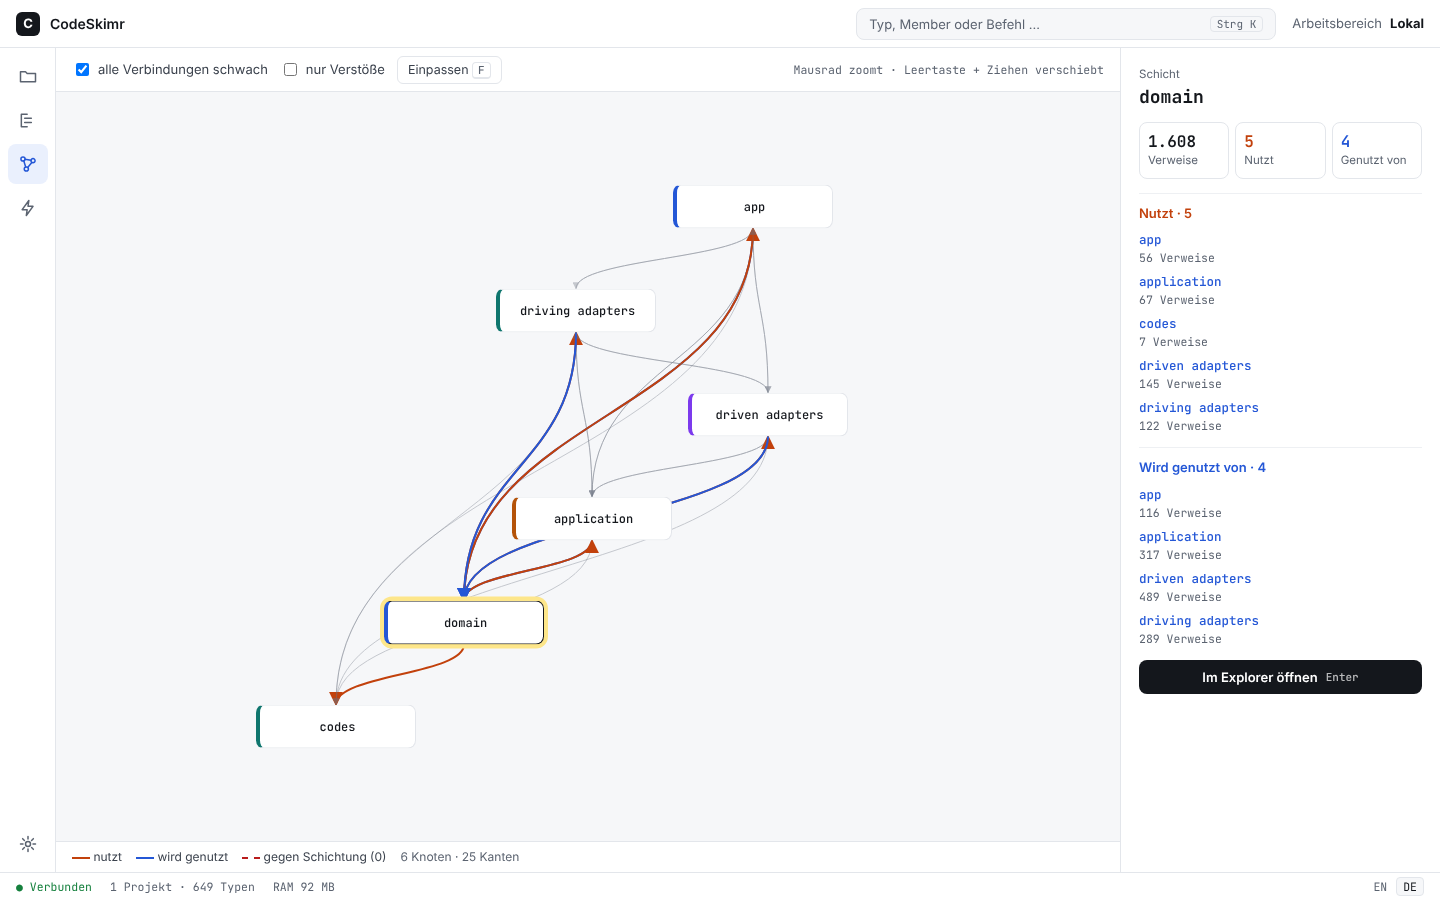
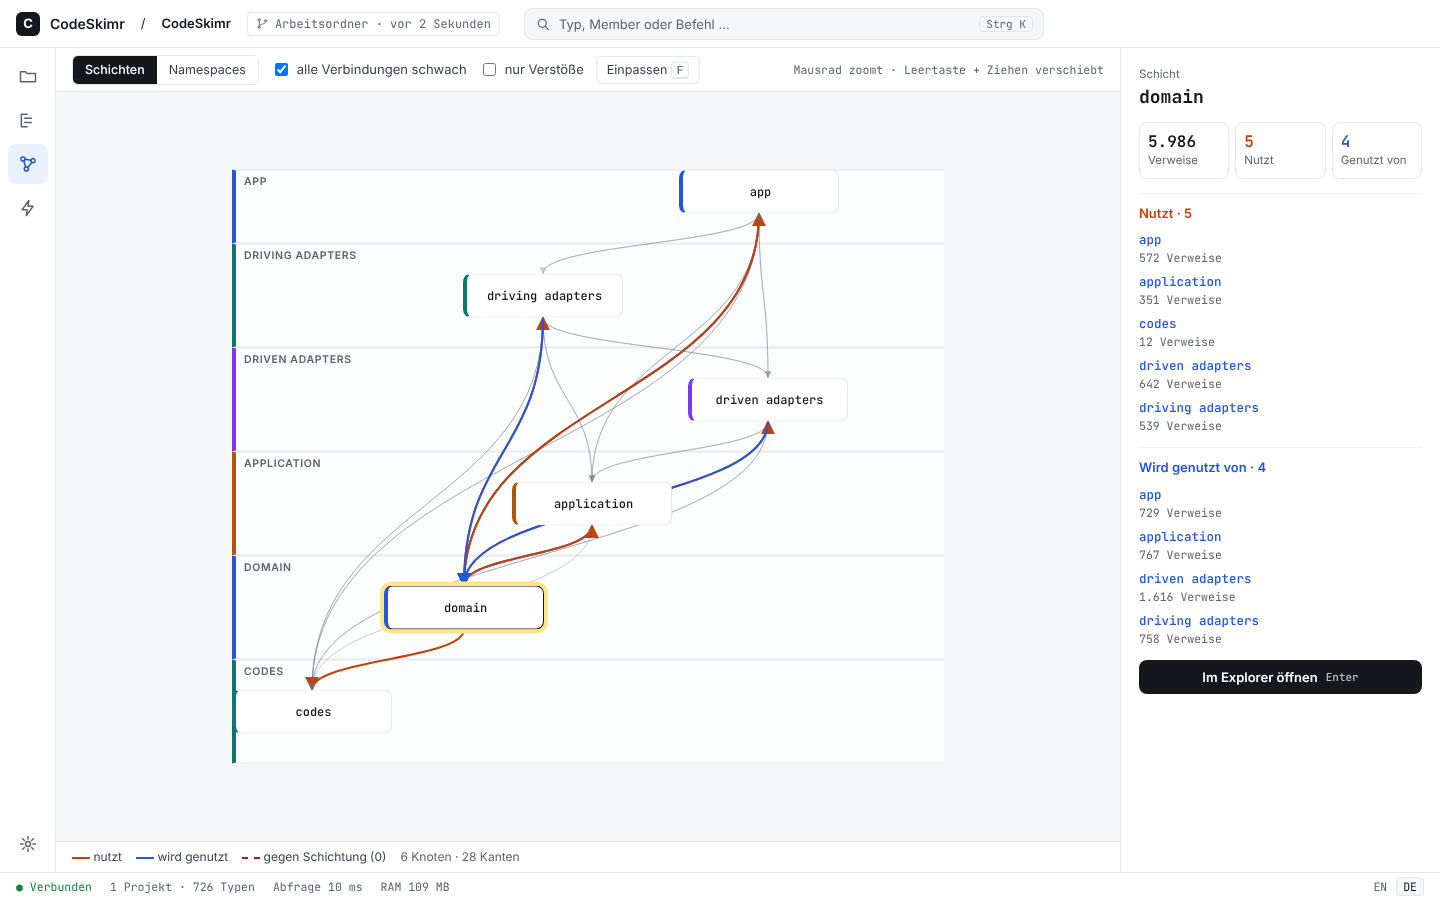
docs: M4-Abnahme wiederholt (Budgets und Mock-Vergleich)
Claude-Session: https://claude.ai/code/session_01GJNKFhQNMopPJV3RWKefFB

diff --git a/docs/acceptance/m4.md b/docs/acceptance/m4.md
@@ -1,8 +1,8 @@
 # Acceptance report M4 (WP-54)
 
-Status of 2026-11-13, commit `91d64da` (main at the start of the run, after WP-51; later commits only add other packages). The criteria are those of blueprint 19 for milestone M4: screens 3 (dependencies), 5 (scan and performance) and 6 (usages) match the mocks, graph layout under 50 ms, usages at depth 2 under 20 ms, and the jump from the explorer to the usages. The accuracy of the usages is not part of this report (WP-67, see `docs/accuracy.md`).
+Second run of 2026-11-14, commit `19c916b` (main after #215). The first run (2026-11-13, commit `91d64da`) found two budgets and many screen details open; the issues #165, #163, #166 to #169, #210 and #198 have been worked on since. The criteria are those of blueprint 19 for milestone M4: screens 3 (dependencies), 5 (scan and performance) and 6 (usages) match the mocks, graph layout under 50 ms, usages at depth 2 under 20 ms, and the jump from the explorer to the usages. The accuracy of the usages is not part of this report (WP-67, see `docs/accuracy.md`).
 
-**Machine:** Linux container, 4 vCPU, release build. As in the M1/M2 report, absolute times are indicative; blueprint 16.1 names a mid-range laptop. The one budget that fails here fails by a factor of up to 3.8 (measured 17 to 76 ms against 20 ms), which the machine alone does not explain.
+**Machine:** Linux container, 4 vCPU, release build. As in the M1/M2 report, absolute times are indicative; blueprint 16.1 names a mid-range laptop.
 
 Legend: ✅ met · ❌ not met (issue linked) · ◐ partly met
 
@@ -10,100 +10,87 @@ Legend: ✅ met · ❌ not met (issue linked) · ◐ partly met
 
 | # | Criterion | Result | Evidence |
 |---|---|---|---|
-| 1 | Screens 3, 5 and 6 match the mocks | ❌ | The three screens exist and work, but differ from the mocks in many places, see the comparison below. Issues #163, #166 to #169. |
-| 2 | Graph layout (≤ 200 nodes) under 50 ms | ✅ | Benchmark `graph_layout/nodes_200`: 0.46 ms. Command `graph.layers` over the real server: median 0.9 to 1.3 ms, p95 2.2 ms (n = 30 to 50). See the limits below. |
-| 3 | Usages query at depth 2 under 20 ms | ❌ | Benchmark `usages/depth_2` (index walk only): 2.1 ms. The command `usages.query` over the real server: 17 ms median (p95 29 ms) for symbols with 100 to 999 usages, 24 to 76 ms for the largest symbols. Issue #165. |
-| 4 | Jump from the explorer to the usages | ✅ | `U` and the button "Usages (U)" open the usages screen (checked by hand, screenshot below; e2e test `web/e2e/ui-usages.spec.ts`). `Enter` goes back to the explorer. `Alt` + click in code is missing (#158). |
+| 1 | Screens 3, 5 and 6 match the mocks | ◐ | Frame, layer bands, namespace level, scan screen and usages screen now follow the mocks in all structure checked; what is left is listed in the comparison below (type level and type focus of the map, parse time per language, code line in the hit list). The final judgement by eye is the product owner's. |
+| 2 | Graph layout (≤ 200 nodes) under 50 ms | ✅ | Benchmark `graph_layout/nodes_200`: 0.46 ms (unchanged). Command `graph.layers` over the real server: median 1.7 ms, p95 2.7 ms, max 4.1 ms (n = 50). |
+| 3 | Usages query at depth 2 under 20 ms | ✅ | Command `usages.query` over the real server: median 6.6 to 6.8 ms for symbols with 100 or more usages, p95 up to 9.1 ms, max 9.5 ms (before: 17 to 76 ms). Five largest symbols at depth 2: median 7.2 ms, p95 8.6 ms, max 11.1 ms. |
+| 4 | Jump from the explorer to the usages | ✅ | `U` and the button "Usages (U)" open the usages screen; `Enter` goes back (e2e test `web/e2e/ui-usages.spec.ts`). `Alt` + click in code is missing (#158). |
 
 ## Budgets
 
-Measured with `tools/acceptance/m4-measure.mjs`: it starts the end-to-end server of the app (release build), scans a folder (CodeSkimr itself: 521 files, 7,863 symbols, 31,936 references, scan 0.6 s) and calls the REST commands with timing in the client, so every number includes the HTTP round trip on the loopback address.
+Measured with `tools/acceptance/m4-measure.mjs`: it starts the end-to-end server of the app (release build), scans a folder (CodeSkimr itself: 594 files, 9,189 symbols, 94,949 references, first scan 1.7 s) and calls the REST commands with timing in the client, so every number includes the HTTP round trip on the loopback address. The project is larger than in the first run (521 files, 31,936 references), so the scan times are not comparable.
 
 ### Graph layout (`graph.layers`)
 
 | Measurement | Result |
 |---|---|
-| Benchmark `graph_layout/nodes_200` (domain layout) | 0.46 ms (0.45 to 0.46) |
-| Benchmark `graph_layout/nodes_1000` | 2.6 ms |
-| Benchmark `graph_layers/layers_200` | 0.40 ms |
-| Command `graph.layers`, CodeSkimr (6 layers, 25 links), 50 calls | median 0.92 ms, p95 1.50 ms, max 2.19 ms |
-| Same, second run, 30 calls | median 1.33 ms, p95 2.16 ms |
+| Benchmark `graph_layout/nodes_200` (domain layout) | 0.46 ms (unchanged since the first run) |
+| Command `graph.layers`, CodeSkimr (6 layers, 28 links), 50 calls | median 1.74 ms, p95 2.72 ms, max 4.06 ms |
 
-Limits of this result: the real map has only the layers of the project (6 boxes here). The case "up to 200 nodes" is covered by the benchmark only; there is no command for the namespace or type level yet (#163). Drawing on the canvas in the browser is not measured; blueprint 16.1 budgets the layout.
+Limits of this result: the layer level of the real project has only 6 boxes. The namespace level (with depth) is measured by the same command but not separately here; the case "up to 200 nodes" is covered by the benchmark. Drawing on the canvas in the browser is not measured; blueprint 16.1 budgets the layout.
 
 ### Usages query at depth 2 (`usages.query`)
 
 | Incoming usages of the symbol | Symbols | Median (first call) | p95 | Max |
 |---|---|---|---|---|
-| 0 to 9 | 218 | 1.6 ms | 4.0 ms | 33.8 ms |
-| 10 to 99 | 119 | 6.7 ms | 10.6 ms | 13.2 ms |
-| 100 to 999 | 61 | 17.0 ms | 29.2 ms | 45.6 ms |
-| 1,000 and more | 2 | 76 ms | | |
+| 0 to 9 | 143 | 1.8 ms | 4.9 ms | 7.7 ms |
+| 10 to 99 | 89 | 2.8 ms | 7.0 ms | 193 ms (single call) |
+| 100 to 999 | 120 | 6.6 ms | 8.0 ms | 9.4 ms |
+| 1,000 and more | 48 | 6.8 ms | 9.1 ms | 9.5 ms |
 
-The 400 symbols come from ten searches (`new`, `error`, `path` and so on); each was queried once with `way = both`, `depth = 2`, tests included. The five symbols with the most usages (2,275, 1,147, 595 and two smaller ones) were then queried 30 to 50 times: medians 24, 34, 45, 54 and 60 ms (p95 up to 80 ms). For the five large symbols the repeated medians (24 to 60 ms) are below the single first call of the two largest ones (76 ms, n = 2); the single calls include a cold cache and are less reliable.
-
-Where the time goes (largest symbol, 30 calls each): `both` at depth 1: 61 ms; `incoming` at depth 1: 58 ms; `incoming` at depth 2: 61 ms; `outgoing` at depth 2: 35 ms. Depth makes no difference, so the walk through the index (2.1 ms in the benchmark) is not the cost. The likely cost is the lookup of names, kinds, layers and paths of up to 500 entries per direction, which issue #83 describes; this is a hypothesis from the measurements (no profile was taken), to be confirmed in #165. The benchmark does not cover this part, so CI cannot see the failure. The medians of the buckets below 100 usages are well under 20 ms (the 0 to 9 bucket has single outliers up to 34 ms), the median of the bucket 100 to 999 is just under it (17 ms) with a p95 of 29 ms, and the largest symbols are far over. Hub symbols are exactly the case where the impact analysis matters. Issue #165.
+The 400 symbols come from ten searches (`new`, `error`, `path` and so on); each was queried once with `way = both`, `depth = 2`, tests included. The largest symbols have 7,963, 1,954 and 1,344 incoming usages. The five symbols with the most usages were then queried 50 times each: median 7.2 ms over all 250 calls, p95 8.6 ms, max 11.1 ms. Largest symbol: `both` at depth 1: 7.3 ms, `incoming` at depth 1: 8.0 ms, `incoming` at depth 2: 8.9 ms, `outgoing` at depth 2: 3.5 ms. The one outlier of 193 ms (bucket 10 to 99) is a single first call and was not reproduced; it is not part of the budget statement (the budget is the median and p95 of repeated calls) but is noted here. Issue #165 is solved: the lookup of names, kinds, layers and paths no longer dominates.
 
 ## Comparison with the mocks
 
-The mock sources in `docs/mocks/` are written for a design canvas whose runtime is not in the repository, and the published canvas is private. `tools/acceptance/render-mock.mjs` fills the small template language of a mock (`{{name}}`, `<sc-for>`) from the mock's own data function and renders it with Chromium at 1440 × 900. `tools/acceptance/m4-screens.mjs` takes the screenshots of the real UI over the end-to-end server in the theme Hell and the language German, as the mocks are drawn (blueprint 15.1). The mocks hold sample data, so only structure, proportions, labels and behaviour are compared, not the content. The comparison is by eye plus the inline values of the mocks; a pixel diff would be meaningless with different data. Fonts of the mock render may differ slightly (the mock loads them from a web font service).
+The mock sources in `docs/mocks/` are written for a design canvas whose runtime is not in the repository, and the published canvas is private. `tools/acceptance/render-mock.mjs` fills the small template language of a mock (`{{name}}`, `<sc-for>`) from the mock's own data function and renders it with Chromium at 1440 × 900. `tools/acceptance/m4-screens.mjs` takes the screenshots of the real UI over the end-to-end server in the theme Hell and the language German, as the mocks are drawn (blueprint 15.1). The mocks hold sample data, so only structure, proportions, labels and behaviour are compared, not the content. The comparison is by eye plus the inline values of the mocks; a pixel diff would be meaningless with different data. The `mock-*.png` files are from the first run (the mocks did not change); the `real-*.png` files are new.
 
 Images are in `docs/acceptance/m4/`: `mock-*.png` is the mock, `real-*.png` the application.
 
 ### Frame (all screens, blueprint 15.2)
 
-| Element | Mock | Application |
-|---|---|---|
-| Top bar 48 px, rail 56 px, status bar | as specified | ✅ sizes match |
-| Project breadcrumb and branch chip | "/ Beispielprojekt" | ❌ missing |
-| Search field | left, next to the breadcrumb, magnifier icon, about 540 px | ❌ right, no icon, wider; "Arbeitsbereich Lokal" at the right edge |
-| Status bar | watch state, counts, last query time | ❌ "Verbunden", counts, memory; no query time |
-
-Issue #167.
+| Element | Result |
+|---|---|
+| Top bar 48 px, rail 56 px, status bar | ✅ sizes match |
+| Project breadcrumb and branch chip | ✅ "CodeSkimr / CodeSkimr" and the chip "Arbeitsordner · vor 2 Sekunden" |
+| Search field | ✅ left, next to the breadcrumb, with magnifier icon and `Strg K` hint |
+| Status bar | ✅ connection, project, types, query time ("Abfrage 10 ms"), memory |
 
 ### Screen 3, dependencies (`mock-graph.png`, `real-graph.png`)
 
 | Element | Result |
 |---|---|
-| Orange outgoing, blue incoming, red dashed violations, faint other edges, legend with totals | ✅ present, legend counts "6 Knoten · 25 Kanten" |
+| Orange outgoing, blue incoming, red dashed violations, faint other edges, legend with totals | ✅ legend "6 Knoten · 28 Kanten" |
 | Yellow ring on the selection | ✅ |
-| Side panel with counts, "uses" and "used by" lists, "Open in explorer (Enter)" | ◐ present; counts are references between layers instead of types per namespace; no type pairs, no violation notice (there are none in this project) |
-| Layer bands with coloured captions, outer layers on top | ❌ boxes in rows, no bands (the layer colour is a stripe on the box) |
-| Toolbar: Namespaces / Type focus, 1 / 2 levels | ❌ missing, only "all connections faint", "violations only", "Fit (F)" |
-| Namespace boxes with type counts | ❌ only layer boxes without counts: `graph.layers` has no namespace level |
-| Key `G` from the explorer | ✅ the button "Graph (G)" exists; the behaviour is part of #163 |
-
-Issue #163 (existing, opened with WP-51).
+| Layer bands with coloured captions, outer layers on top | ✅ |
+| Side panel with counts, "uses" and "used by" lists, "Open in explorer (Enter)" | ◐ present; counts are references between layers; no type pairs, no violation notice (there are none in this project) |
+| Toolbar: Layers / Namespaces, depth, "all connections faint", "violations only", "Fit (F)" | ✅ the depth group (all, 1 level, 2 levels) shows on the namespace level only (checked by test, not in a screenshot) |
+| Level "Types" and focus on one type | ❌ needs a type-level dependency graph (own package, listed in #198) |
+| C#: namespaces assigned to layers and meaningful depth | ❌ C# names still carry a prefix (#137, #145) |
+| Key `G` from the explorer | ✅ |
 
 ### Screen 5, scan and performance (`mock-scan.png`, `real-scan.png`)
 
 | Element | Result |
 |---|---|
 | Heading, percentage, bar, files and lines per second, memory | ✅ |
-| Cores in use | ❌ missing (three figures instead of four) |
-| "Cancel" with `Esc` while a scan runs | ❌ missing |
-| Pipeline with state, detail, bar and duration | ◐ present; the stage "Symbols & members" is not shown, "Store" is |
-| Language table with tier, files, symbols, parse time | ❌ only language, files, lines |
-| Performance budgets with target and measured value | ◐ targets from the configuration are right; measured values only for cold start and the incremental scan, the other five stay "–" (#166) |
+| Cores in use | ✅ fourth figure present ("–" once the scan is complete) |
+| "Cancel" with `Esc` while a scan runs | ✅ (#211; not visible in a screenshot of a finished scan, covered by tests) |
+| Pipeline with state, detail, bar and duration | ✅ durations come from the server (#214) |
+| Language table with tier, files, lines, symbols, parse time | ◐ tier, files, lines and symbols present; parse time per language missing |
+| Performance budgets with target and measured value | ◐ in this run 2 of 7 show a measured value (graph layout 10 ms, scan of 100k lines 1,583 ms); the others show "–" until they have been measured in the session (#166) |
 | Recent scans with the note on hashes | ✅ |
 
-Issues #166 and #168.
-
-### Screen 6, usages (`mock-usages.png`, `real-usages.png`, `real-usages-list.png`)
+### Screen 6, usages (`mock-usages.png`, `real-usages.png`)
 
 | Element | Result |
 |---|---|
 | Toolbar: level, direction, depth, "show tests", `Alt` + click hint | ✅ |
-| Columns callers level 2, level 1, focus | ✅ (the focus card is a `struct`, so there is nothing in the column "calls / reads") |
-| Column "calls / reads" | ◐ not shown in the checked case, not verified with a method that calls others |
+| Columns callers level 2, level 1, focus, "calls / reads" | ✅ all four column heads |
 | Cards with counts, probable edges dashed, tests marked | ✅ |
-| Legend ("calls", "uses", "probable", "number = places") | ❌ missing |
-| Hit list pinned below the graph with `F8` and `Enter` hints | ◐ the list and the hints exist, but the graph grows with the number of hits, the page scrolls (1,592 px for 39 hits) and the list starts below the visible area |
+| Legend ("calls", "uses", "probable", "number = places") | ✅ it sits over the lower left corner of the graph area and covers part of one card row; worth a look by eye |
+| Hit list pinned below the graph with `F8` and `Enter` hints | ✅ the page no longer scrolls (document height 900 px), the list is visible with 96 hits |
 | Code line with the symbol marked, line number | ❌ path and line instead of the code (#157) |
-| Hit kinds "call", "test", "probable" | ◐ kinds and "probable / unchecked" shown; level 2 is not available, so every hit is "unchecked" or "probable" by design (WP-53, ADR 0033) |
-| Side panel: signature, places / files / layers, impact, note on constants, accuracy | ✅ (accuracy text states that no indexer is set up) |
-
-Issue #169, and the existing #157, #158.
+| Hit kinds and "probable / unchecked" | ✅ shown; level 2 needs the tier-2 data, so no hit is "checked" in this run |
+| Side panel: signature, places / files / layers, impact, note on constants, accuracy | ✅ |
 
 ### Explorer to usages
 
@@ -113,28 +100,13 @@ The explorer, the member table and the button open the usages of the selection; 
 
 | Issue | Subject | Blocks |
 |---|---|---|
-| #165 | `usages.query` takes 17 to 76 ms for symbols with more than 100 usages (#83 is the likely cause) | M4 criterion 3 |
-| #153 | earlier follow-up of WP-52 for the scan screen; overlaps #166 and #168 (to be merged or closed by the owner of those packages) | M4 criterion 1 |
-| #163 | dependency map: layer bands, namespace and type level, depth, key `G` | M4 criterion 1 |
-| #166 | performance screen shows measured values for two of seven budgets | M4 criterion 1 |
-| #167 | top bar: breadcrumb, branch chip, search field; status bar | M4 criterion 1 |
-| #168 | scan screen: cancel, cores, language table, stage names | M4 criterion 1 |
-| #169 | usages screen: pinned hit list, legend, "calls / reads" column | M4 criterion 1 |
-| #157, #158 | code line in the hit list, `Alt` + click | M4 criterion 1 |
-| #83 | name lookup for the entries of a usages query | M4 criterion 3 |
-
-## Repeat
-
-```sh
-cd web && npm ci && npm run build && cd ..
-node tools/acceptance/m4-measure.mjs <project-folder> 50          # budgets
-CODESKIMR_CHROMIUM=<chromium> node tools/acceptance/render-mock.mjs Graph mock-graph.png   # one mock (Graph, Scan, Usages)
-CODESKIMR_CHROMIUM=<chromium> node tools/acceptance/m4-screens.mjs <project-folder> <out> hell de
-cargo bench -p codeskimr_bench --bench graph_layout --bench usages
-```
-
-`m4-measure.mjs` and `m4-screens.mjs` start the end-to-end server with `cargo test --release` (a few minutes for the first build) and write nothing into the project folder. They need a Chromium for the screenshots (`CODESKIMR_CHROMIUM`, as for the e2e tests of `web/`). `m4-screens.mjs` names its files `<screen>-<theme>.png`; the report's `real-*.png` are `graph-selected`, `scan`, `usages` and `usages-scrolled` renamed (it selects a type by quick search, default `ReverseIndex`, set `M4_TYPE` for another project). The scan of CodeSkimr took 0.6 s here against 1.6 s in the M1/M2 report because incremental work and the faster parse since then are included; this was not analysed further. `m4-screens.mjs` clicks through a project with layers and a type named by `M4_TYPE`, so it needs a project that has one. The scripts are for acceptance runs; CI does not run them.
+| #198 | map: level "Types" and type focus, canvas drawing for many nodes, C# layers | M4 criterion 1 (detail) |
+| #166 | performance screen: measured values for the five remaining budgets | M4 criterion 1 (detail) |
+| (to open if wanted) | parse time per language in the language table | M4 criterion 1 (detail) |
+| #157, #158 | code line in the hit list, `Alt` + click | M4 criterion 1 (detail) |
+| #137, #145 | C# namespace names and layers | depth levels on C# projects |
+| #225 | flaky MCP timeout in the test `layers_of_the_project_file_reach_get_architecture` | none (CI noise) |
 
 ## Verdict
 
-M4 cannot be accepted yet. Met: the graph layout budget (far below 50 ms) and the jump from the explorer to the usages. Not met: the usages budget at the command level (#165; the walk itself is fast, the lookup of the entries probably is not) and the match with the mocks (frame, graph bands and namespace level, performance figures, scan and usages details; #163, #166 to #169, #157, #158). Everything listed works and is covered by tests; what is missing is detail against the mock and the namespace level of the map. After #165 is fixed the measurement is repeated with `m4-measure.mjs`; the mock comparison is repeated after the UI issues.
+Criteria 2, 3 and 4 are met: the graph layout (about 2 ms against 50 ms), the usages query (median 7 ms, max 11 ms against 20 ms, also for the symbols with thousands of usages) and the jump from the explorer. Criterion 1 is partly met: the frame, the layer bands and namespace level of the map, the scan screen and the usages screen now follow the mocks in structure and behaviour. What is left is small and named above: level "Types" and type focus of the map (#198), parse time per language, the five missing measured values on the performance screen (#166), the code line in the hit list (#157). Whether the screens are close enough to the mocks is a judgement by eye for the product owner; the screenshots are in `docs/acceptance/m4/`.
